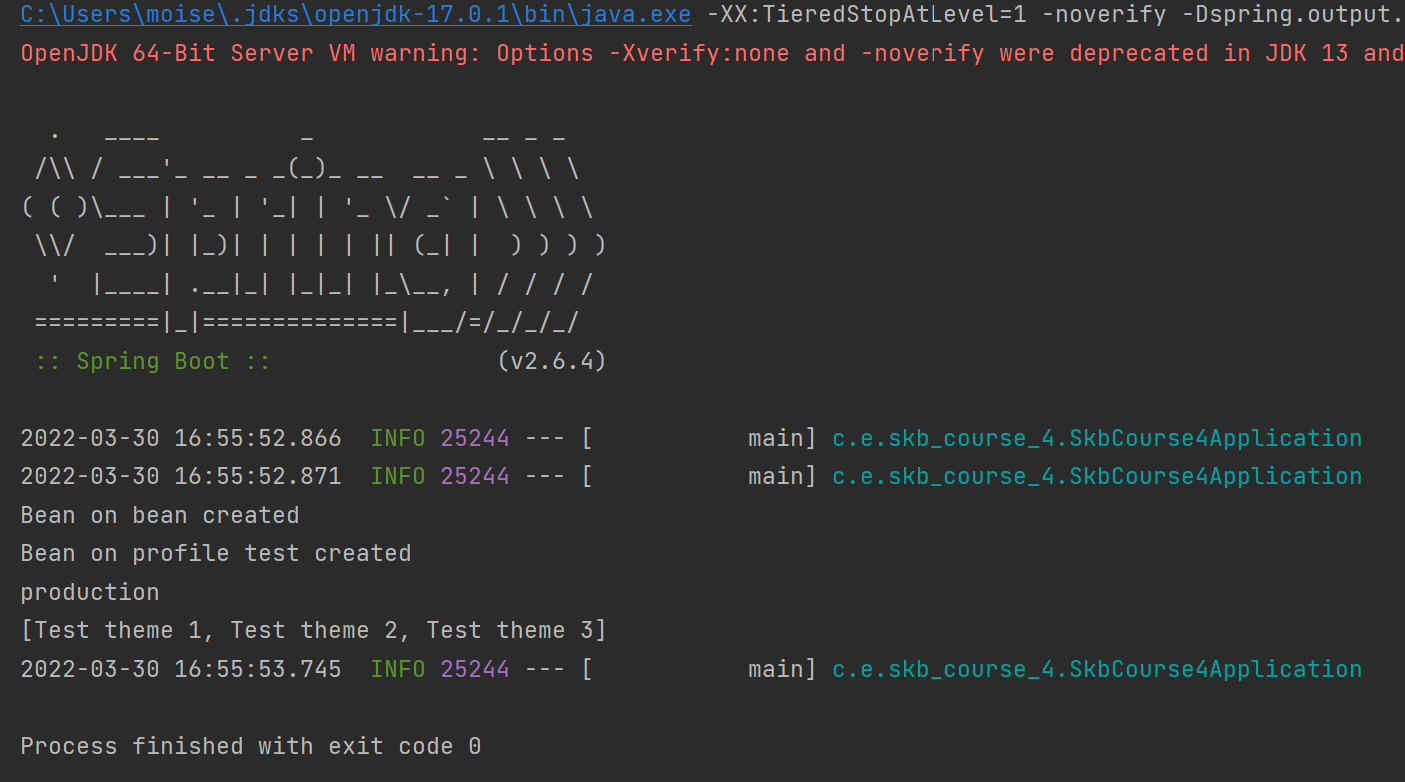
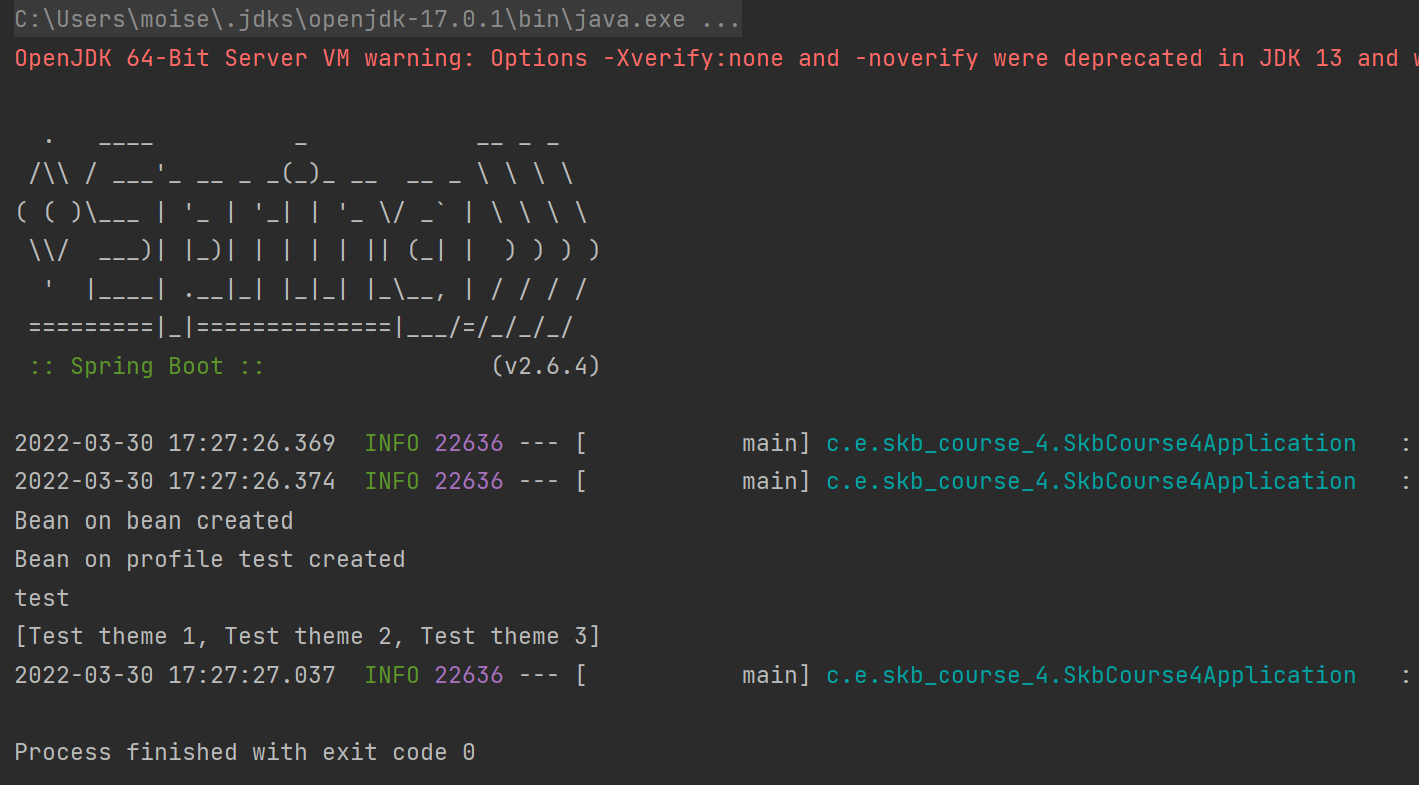
solve updated

diff --git a/readme.md b/readme.md
@@ -8,7 +8,7 @@ spring:
       on-profile: dev
 name: skbCourse-dev
 my:
-  studentName: production
+  studentName: dev
   color: red
   courseThemes:
   - Sample theme 1
@@ -22,7 +22,7 @@ spring:
       on-profile: test
 name: skbCourse-test
 my:
-  studentName: production
+  studentName: test
   color: blue
   courseThemes:
   - Test theme 1
@@ -36,7 +36,7 @@ spring:
       on-profile: prod
 name: skbCourse-prod
 my:
-  studentName: production
+  studentName: prod
   courseThemes:
     - git
     - Spring boot hello
